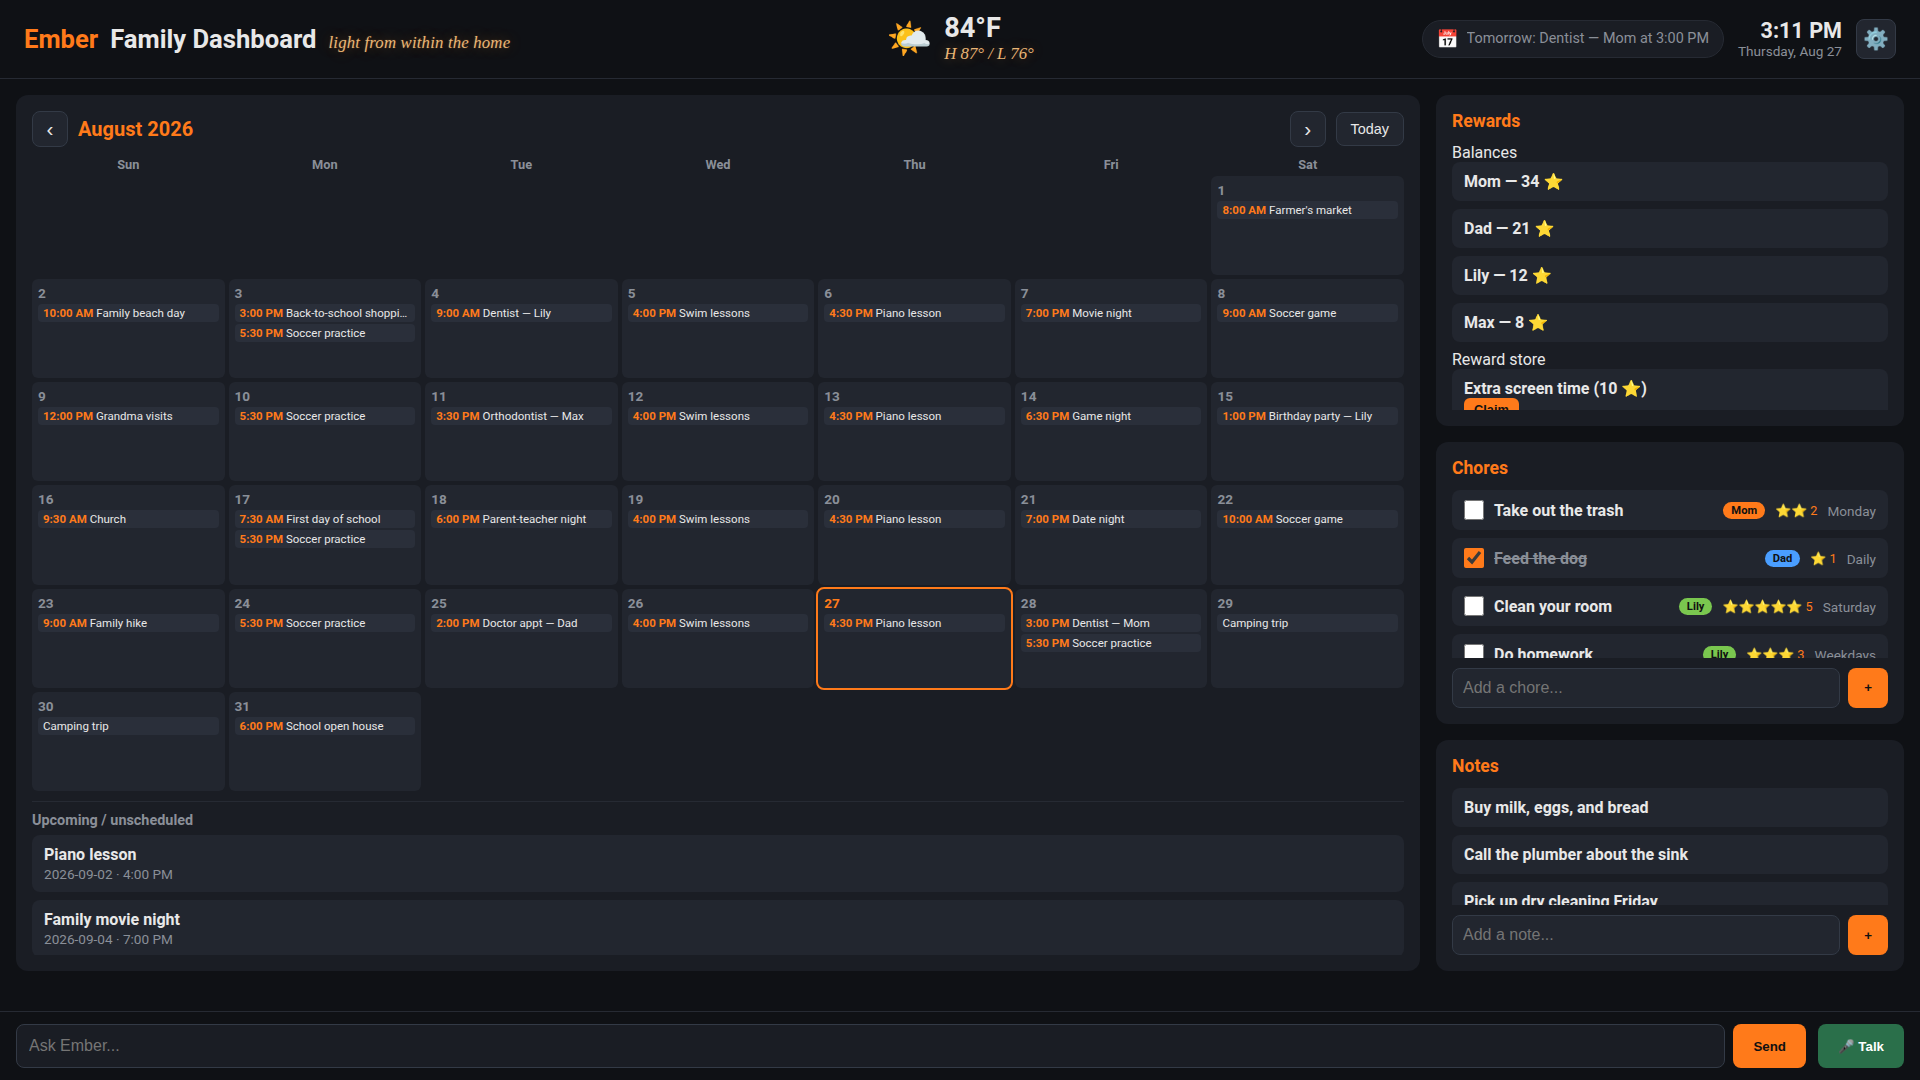
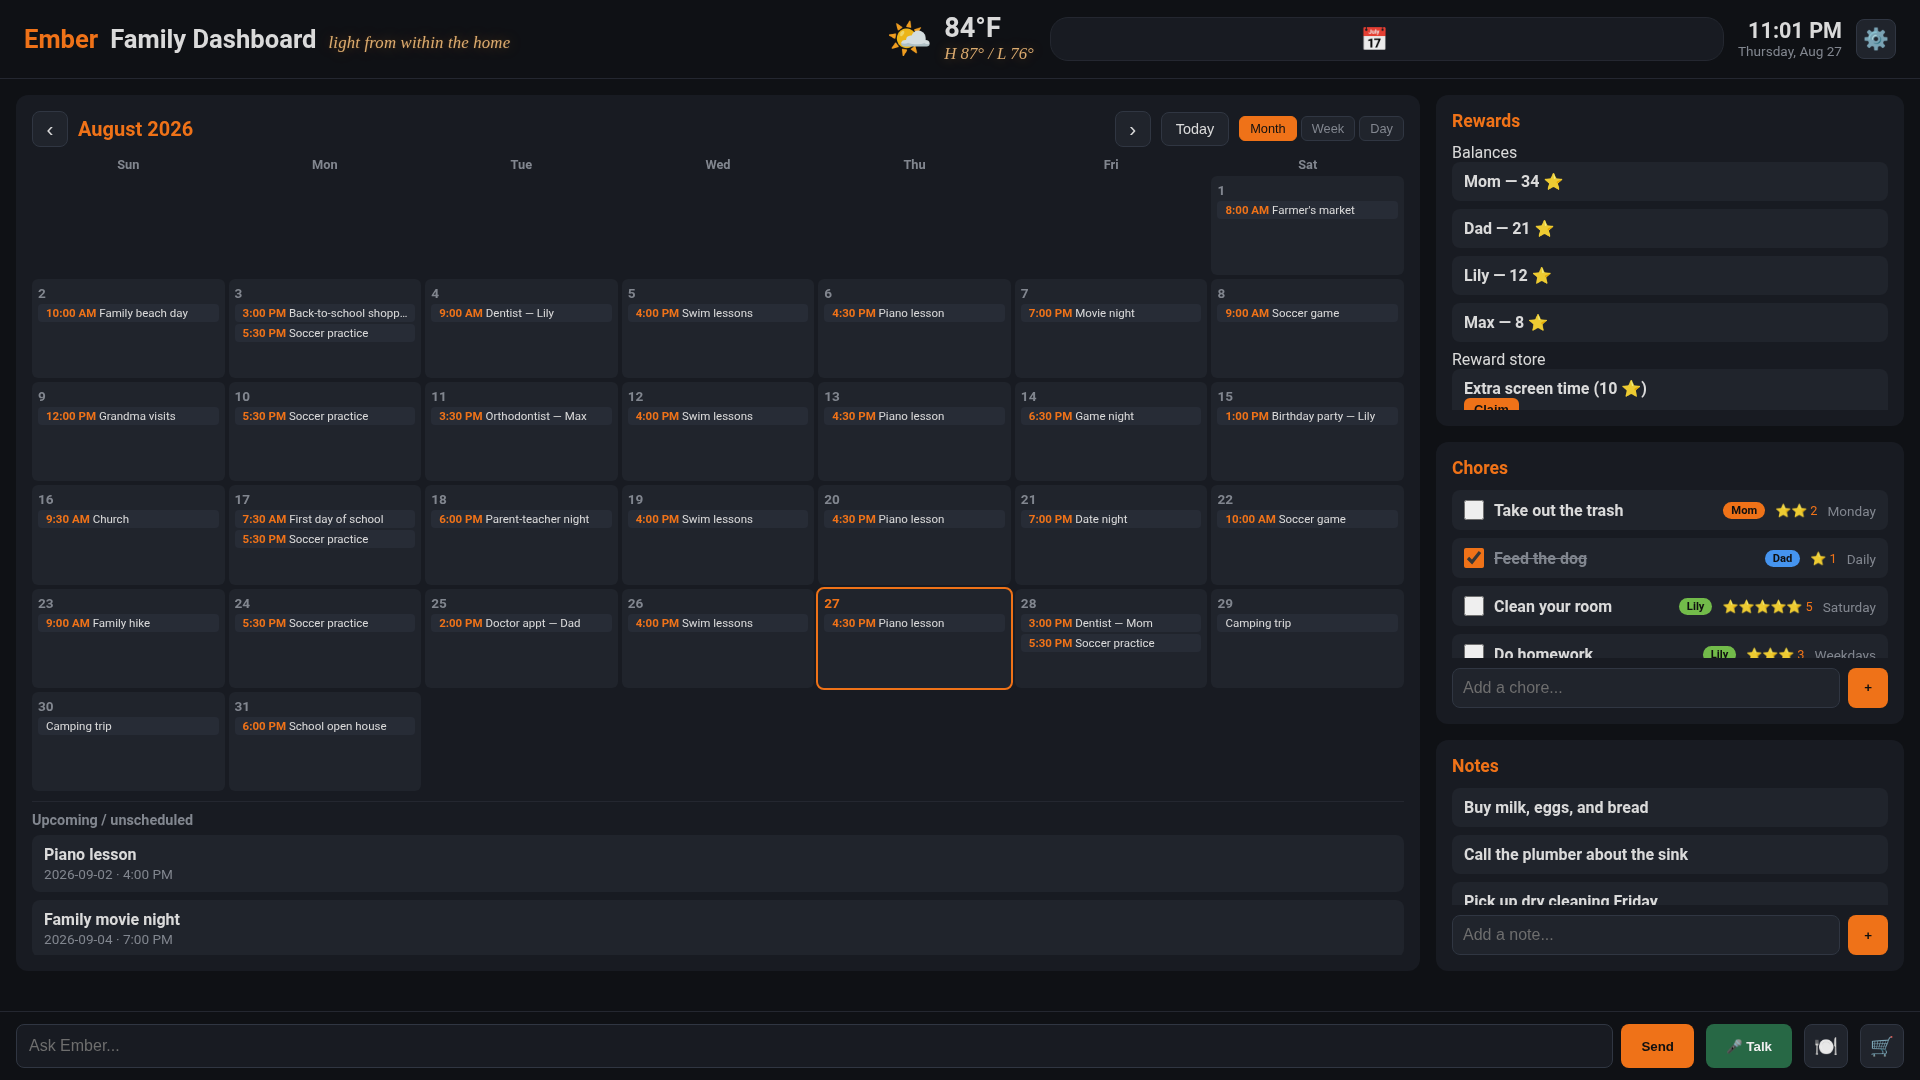
docs: remove phase references, refresh screenshots with Phase 5/6 features

diff --git a/README.md b/README.md
@@ -34,7 +34,7 @@ kiosk, or (soon) a bring-your-own-key cloud API. See
 - **Chat box** — type a request ("Ask Ember…") and the assistant can add, list,
   and delete notes, chores, and calendar events via tool calling.
 
-### Star-Powered Rewards (Phase 1)
+### Star-Powered Rewards
 - Chores carry **star values** and an **assignee**.
 - Checking off a chore **awards stars** to that member (idempotent — re-checking
   doesn't double-award).
@@ -52,19 +52,19 @@ kiosk, or (soon) a bring-your-own-key cloud API. See
   events (next 7 days), RSS news (multi-feed, 35+ presets), and (soon) email.
   Rotation speed is configurable.
 
-### Photo & video screensaver (Phase 3)
+### Photo & video screensaver
 - After a configurable idle period (default 5 min), the board fades into a
   full-screen carousel of your photos and videos (images + autoplay-muted
   looping video).
 - Upload and delete media from Settings. Media lives in `photos/` (git-ignored).
 
-### Calendar sync & views (Phase 4)
+### Calendar sync & views
 - **iCal feed import** — paste a public calendar feed URL (Google Calendar
   public link, iCloud, Outlook, CalDAV, etc.) and Ember imports the events,
   deduplicating by UID.
 - **Month / week / day** views with a one-tap toggle.
 
-### Home management (Phase 5)
+### Home management
 - **Shared grocery list** — a dedicated mobile page (`/grocery.html`) any phone
   on the LAN can open, with tap-to-check, add, and delete.
 - **Custom lists** — create any named list (packing, wishlist, etc.).
@@ -73,7 +73,7 @@ kiosk, or (soon) a bring-your-own-key cloud API. See
 - **Sleep mode** — set a sleep window; the screen dims during those hours
   (including overnight windows that cross midnight).
 
-### "Calendar Plus" AI (Phase 6)
+### "Calendar Plus" AI
 - **Meal planning** — a dedicated `/meals.html` page with a 7-day editable plan
   and an **✨ Suggest** button that asks the LLM to propose a week of dinners
   (honoring preferences like "no beef, quick meals").
@@ -90,7 +90,7 @@ kiosk, or (soon) a bring-your-own-key cloud API. See
   rotation speed.
 - **Calendar connections** — add/remove connections (Google Calendar, iCloud,
   Outlook, CalDAV, iCal feed) with URLs. *(Config layer + iCal import — full
-  two-way sync is a later phase.)*
+  two-way sync is planned.)*
 - **Screensaver** — enable/disable, idle timer, photo manager.
 - **Home management** — PIN, sleep window, countdowns, lists.
 
@@ -166,16 +166,16 @@ roadmap.
 
 ## Roadmap
 
-Shipped (Phases 1–6, self-contained parts):
+Shipped:
 
-- ✅ **Phase 1 — Star-Powered Rewards**
-- ✅ **Phase 2 — Motivation Mode** (milestone celebrations, settings UI, top
+- ✅ **Star-Powered Rewards**
+- ✅ **Motivation Mode** (milestone celebrations, settings UI, top
   bar, notification feed, voice/wake-name selector)
-- ✅ **Phase 3 — Photo & Video Screensaver**
-- ✅ **Phase 4 — Calendar Sync & Views** (iCal import + month/week/day)
-- ✅ **Phase 5 — Home Management Extras** (grocery + custom lists, PIN lock,
+- ✅ **Photo & Video Screensaver**
+- ✅ **Calendar Sync & Views** (iCal import + month/week/day)
+- ✅ **Home Management Extras** (grocery + custom lists, PIN lock,
   countdowns, sleep mode)
-- ✅ **Phase 6 — "Calendar Plus" AI** (meal planning + grocery export)
+- ✅ **"Calendar Plus" AI** (meal planning + grocery export)
 
 In progress / TODO:
 
@@ -208,7 +208,7 @@ In progress / TODO:
 - `record_wakeword.py` — records clips to train a custom wake word (optional)
 - `scripts/reload-kiosk.sh` — restarts the kiosk browser (used by the git hook)
 - `hooks/post-merge` — git hook that auto-reloads the kiosk browser on `git pull`
-- `docs/plans/` — roadmap and phase plans
+- `docs/plans/` — roadmap and plans
 - `docs/screenshots/` — dashboard and settings screenshots
 
 ## Setup
